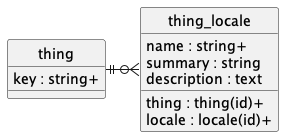
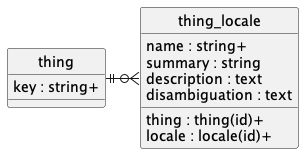
Add thing

Changed region(s): [[0.0, 0.0292, 0.9859, 0.9927]]

diff --git a/doc/concepts/thing/index.md b/doc/concepts/thing/index.md
@@ -4,7 +4,7 @@ For a thing, such as a social media thing.
 
 Attributes:
 
-* key
+* key : string+
 
 
 ## thing_locale
@@ -20,3 +20,5 @@ Attributes:
 * summary : string -- example: "This thing is an example".
 
 * description : text -- example: "This thing is an example of a social media thing"
+
+* disambiguation : text -- example: "This text is a disambiguation description that explains the difference between this item and others."
